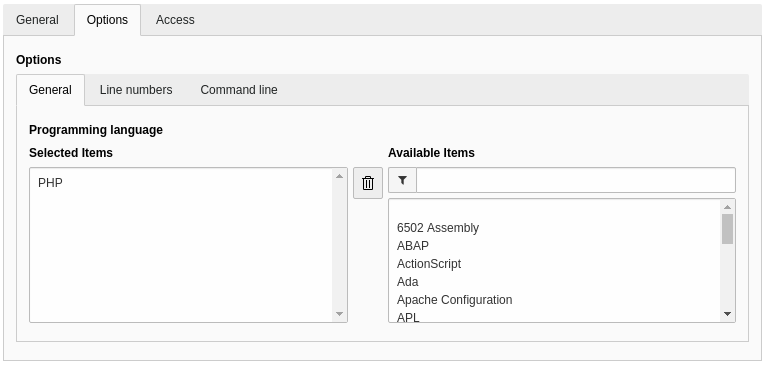
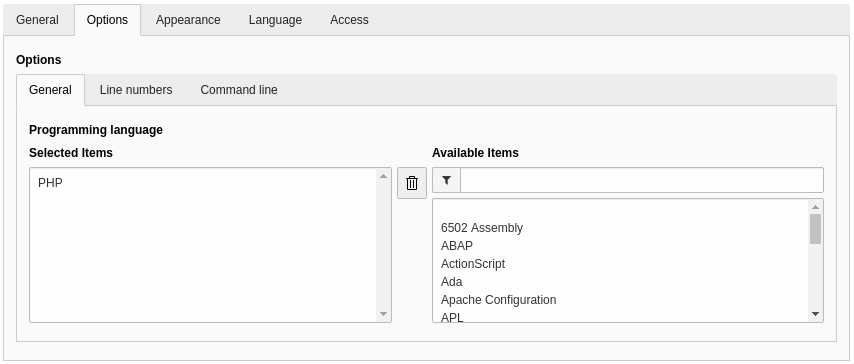
[DOCS] Activate heading and appearance tab in content element
Relates: #3

diff --git a/Documentation/Editor/Index.rst b/Documentation/Editor/Index.rst
@@ -164,7 +164,13 @@ You can see some examples for the rendering of the command line on the
 
 .. _editors-content-element-access:
 
+Appearance
+----------
+
+The *Appearance* tab gives the possibility to select a layout or show the content element in section menus, like in
+other content elements.
+
 Access
 ------
 
-On the access tab you'll find the default fields, like "Visibility of content element" or the publish dates.
+On the *Access* tab you'll find the default fields, like *Visibility of content element* or the publish dates.
